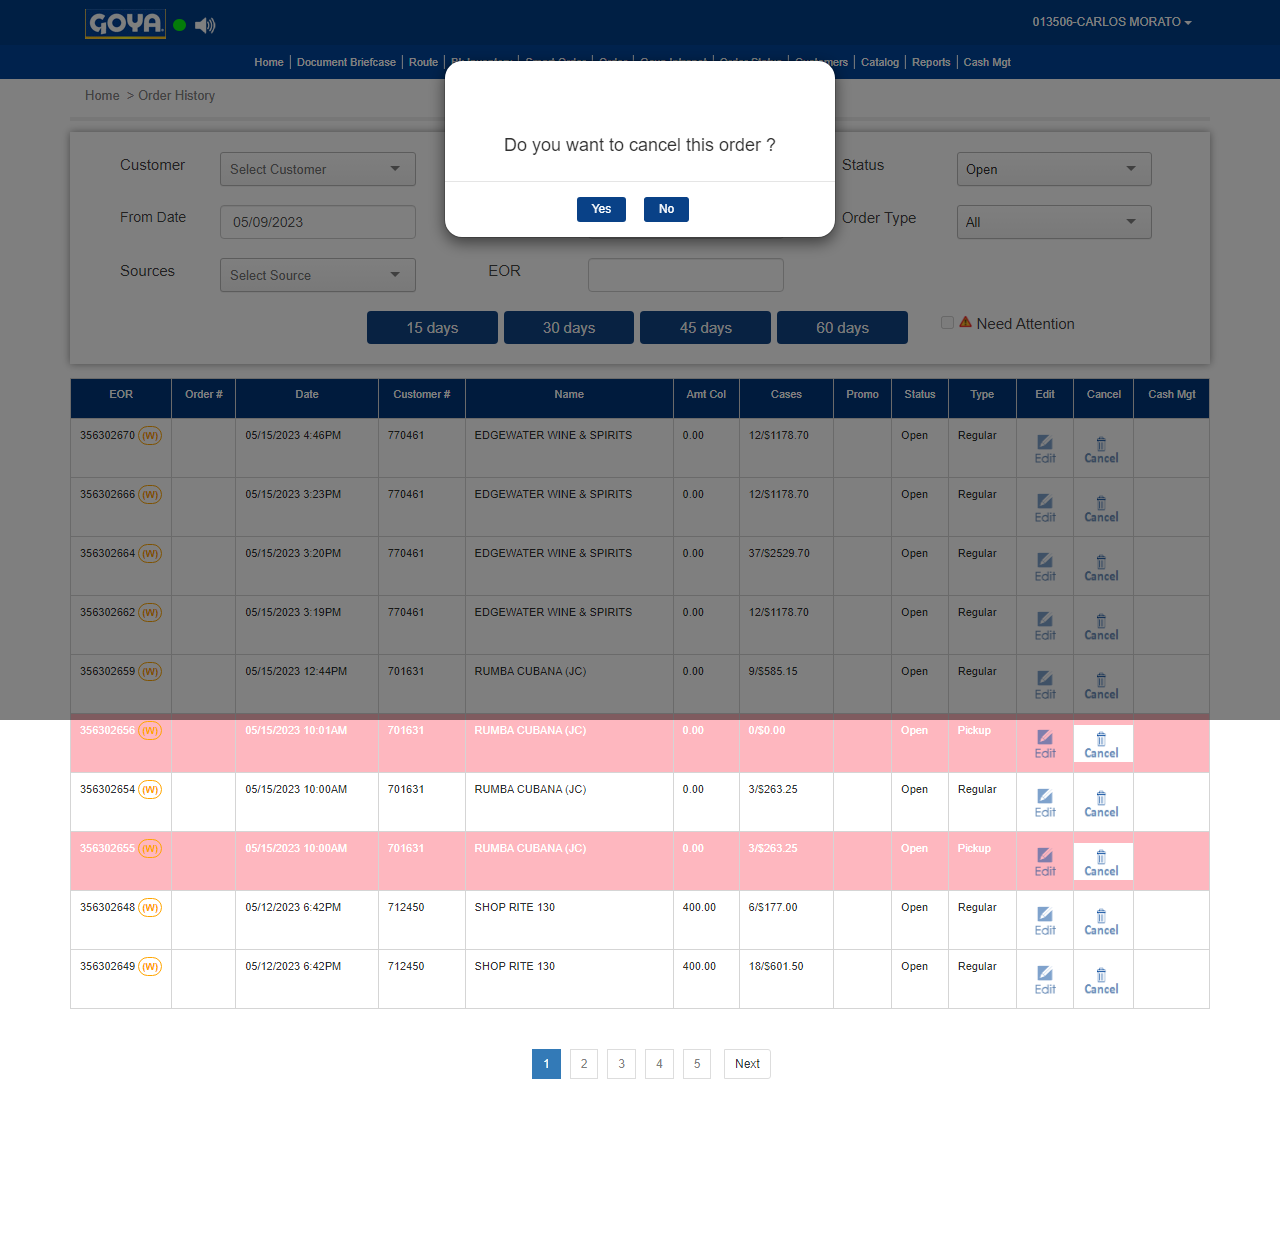
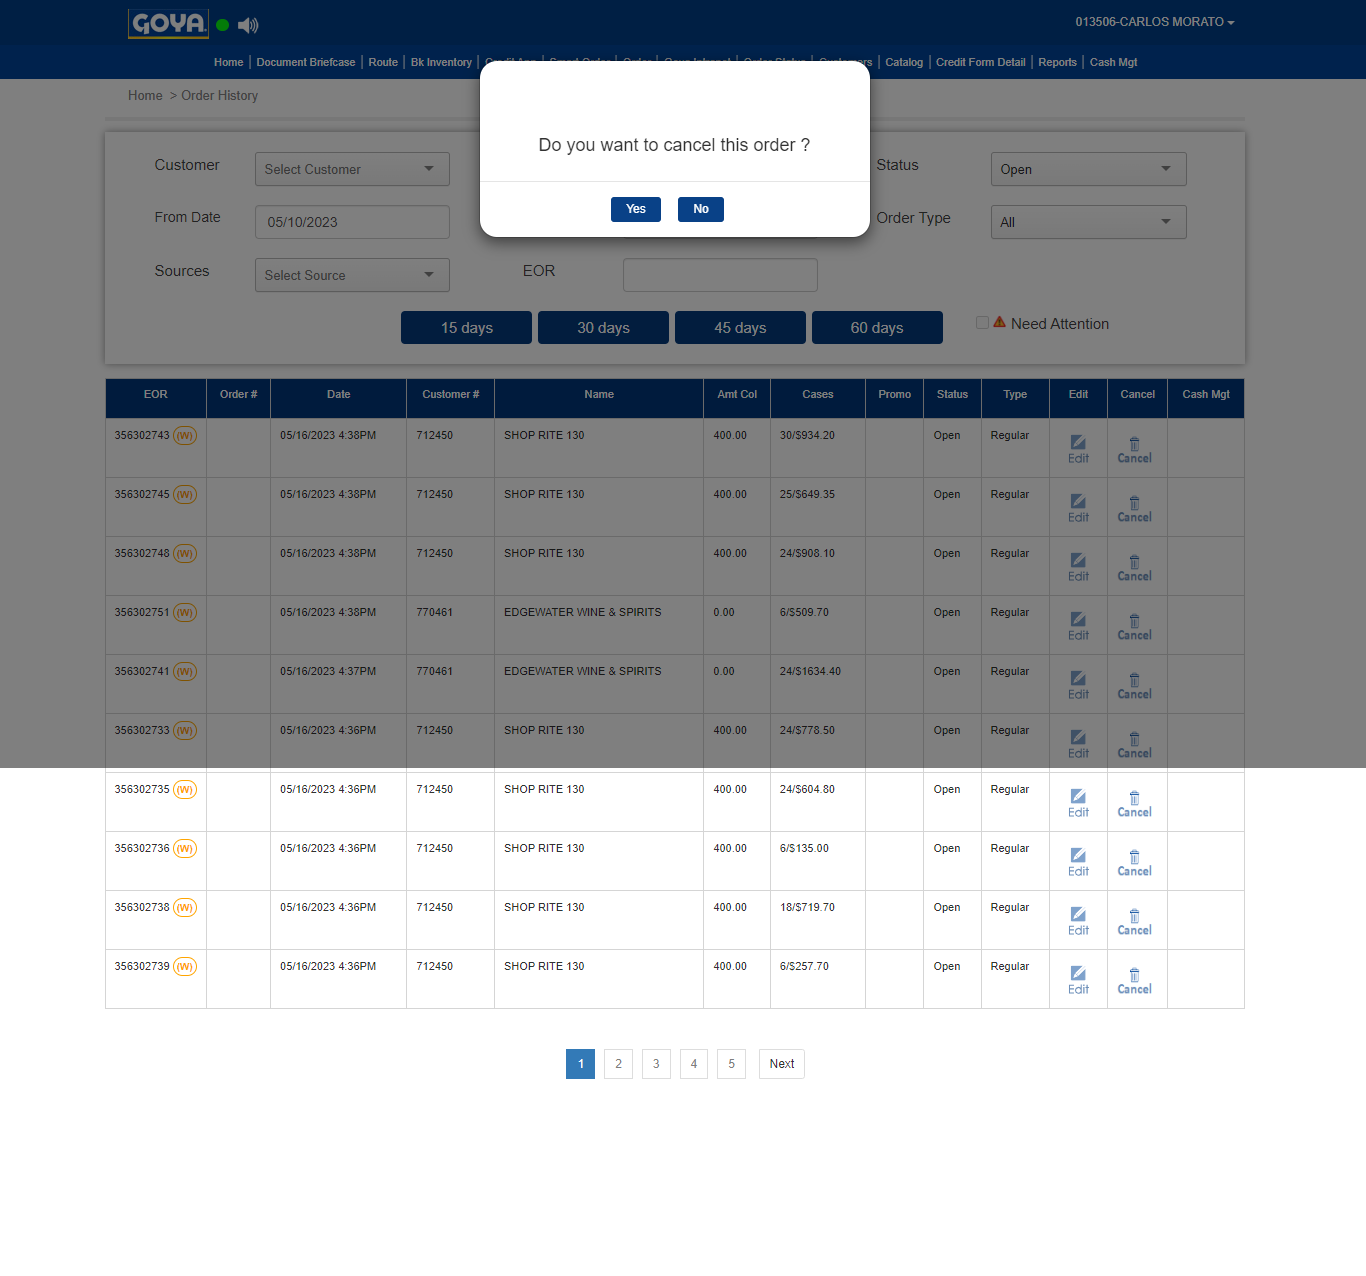
OrderStatus1705

diff --git a/playwright.config.js b/playwright.config.js
@@ -31,7 +31,7 @@ module.exports = defineConfig({
   /* Opt out of parallel tests on CI. */
   workers: process.env.CI ? 1 : undefined,
   /* Reporter to use. See https://playwright.dev/docs/test-reporters */
-  reporter: 'experimental-allure-playwright',
+  reporter: [['html'],['line'],['allure-playwright']],
   /* Shared settings for all the projects below. See https://playwright.dev/docs/api/class-testoptions. */
   use: {
     video: 'on',
@@ -48,8 +48,14 @@ module.exports = defineConfig({
   /* Configure projects for major browsers */
   projects: [
     {
+      
       name: 'chromium',
-      use: { ...devices['Desktop Chrome'] },
+      use: { 
+        ...devices['Desktop Chrome'],
+        viewport:{width:1366,height:768}
+               
+      },
+      
     },
 
     // {

diff --git a/tests/Orderstatus.spec.js b/tests/Orderstatus.spec.js
@@ -31,7 +31,7 @@ test('Order Status', async ({ page }) => {
     await page.getByRole('button', { name: 'Status focus' }).press('ScrollLock');
     await page.getByRole('option', { name: 'Open', exact: true }).getByText('Open').click();
     await page.waitForTimeout(10000)
-    await page.getByRole('cell', { name: '356302659 (W)' }).click();
+    await page.getByRole('cell', { name: '356302741 (W)' }).click();
     await page.screenshot({ path: "Pdf.png", fullPage: true })
     const downloadPromise = page.waitForEvent('download');
     await page.locator('#pdf').getByText('PDF').click();
